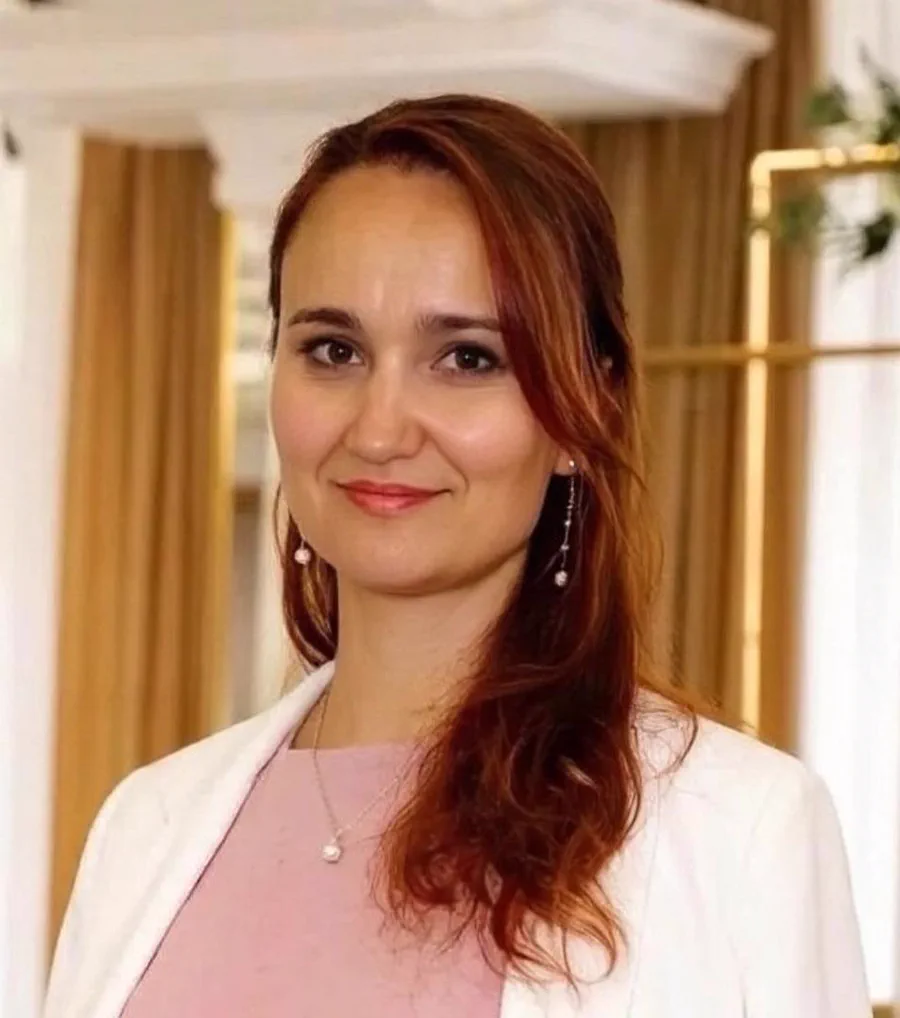
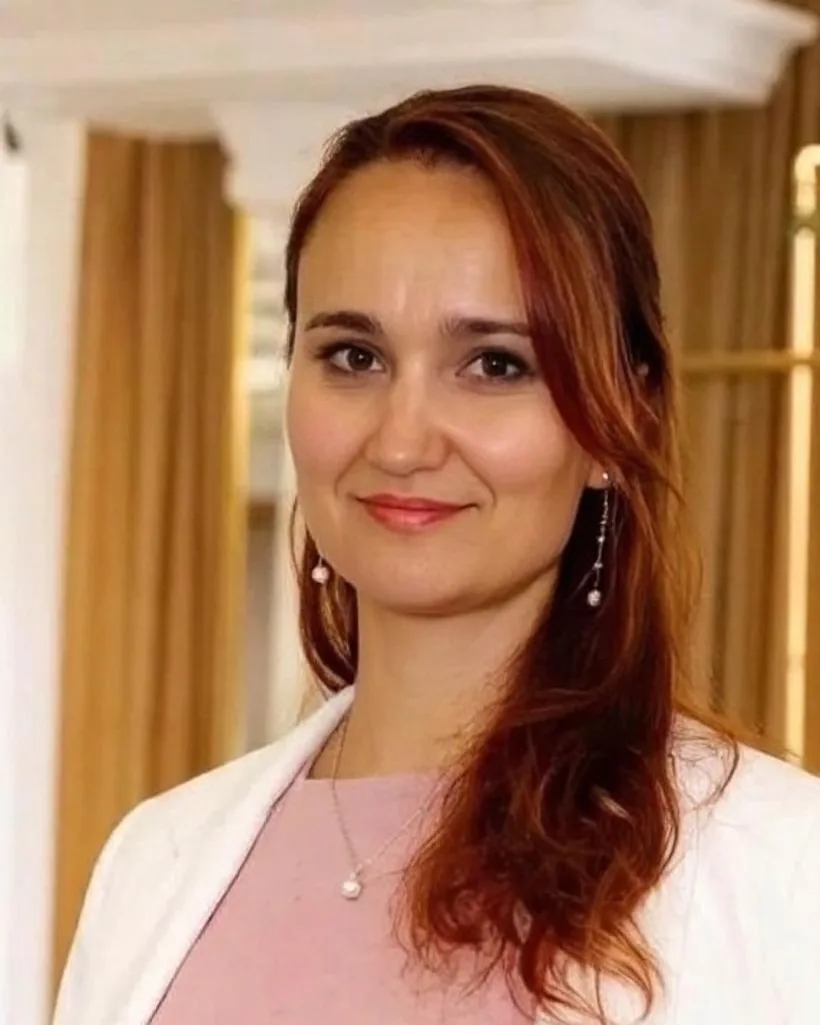
feat: описание и фото профиля — по обновлённому PDF-портфолио (28.10)

diff --git a/src/index.html b/src/index.html
@@ -17,9 +17,9 @@
   <link rel="canonical" href="https://jt-design.ru/index.html">
   <meta property="og:type" content="website">
   <meta property="og:title" content="Юлия Таранникова — дизайн интерьера">
-  <meta property="og:description" content="Проектирую интерьер под сдачу в аренду или для личного проживания. В каждом проекте совмещаю продуманную планировку с законной перепланировкой — и интерьер, который привлекает платёжеспособных арендаторов.">
+  <meta property="og:description" content="Проектирую Ваш интерьер под сдачу в аренду или для Вашего личного проживания. В каждом проекте совмещаю продуманную планировку с законной перепланировкой, в которой комфортно жить и интерьер, который привлекает платежеспособных арендаторов.">
   <meta property="og:url" content="https://jt-design.ru/index.html">
-  <meta property="og:image" content="https://jt-design.ru/assets/img/julia-16x9.webp">
+  <meta property="og:image" content="https://jt-design.ru/assets/img/julia-og.webp">
   <meta property="og:locale" content="ru_RU">
   <meta name="twitter:card" content="summary_large_image">
   <script type="application/ld+json">
@@ -27,9 +27,9 @@
   "@context": "https://schema.org",
   "@type": "ProfessionalService",
   "name": "Юлия Таранникова — дизайн интерьера",
-  "description": "Проектирую интерьер под сдачу в аренду или для личного проживания. В каждом проекте совмещаю продуманную планировку с законной перепланировкой — и интерьер, который привлекает платёжеспособных арендаторов.",
+  "description": "Проектирую Ваш интерьер под сдачу в аренду или для Вашего личного проживания. В каждом проекте совмещаю продуманную планировку с законной перепланировкой, в которой комфортно жить и интерьер, который привлекает платежеспособных арендаторов.",
   "url": "https://jt-design.ru/",
-  "image": "https://jt-design.ru/assets/img/julia-16x9.webp",
+  "image": "https://jt-design.ru/assets/img/julia-og.webp",
   "areaServed": "Москва и Россия",
   "address": {
     "@type": "PostalAddress",
@@ -93,10 +93,10 @@
         <div class="hero__plate">
           <div class="hero__top">
             <figure class="hero__portrait">
-              <img src="assets/img/julia-hero-800.webp"
-                   srcset="assets/img/julia-hero-800.webp 500w, assets/img/julia-hero.webp 900w"
+              <img src="assets/img/julia-hero-500.webp"
+                   srcset="assets/img/julia-hero-500.webp 500w, assets/img/julia-hero.webp 952w"
                    sizes="(min-width: 768px) 168px, 84px"
-                   width="900" height="1018"
+                   width="952" height="1026"
                    alt="Юлия Таранникова, дизайнер интерьера"
                    loading="eager" decoding="async">
             </figure>
@@ -107,7 +107,7 @@
             </div>
           </div>
           <h1 class="hero__title">Интерьер, который <em>работает</em> на вас</h1>
-          <p class="hero__subtitle">Проектирую интерьер под сдачу в аренду или для личного проживания.</p>
+          <p class="hero__subtitle">Проектирую Ваш интерьер под сдачу в аренду или для Вашего личного проживания.</p>
           <p class="hero__slogan">Вы не тратите месяцы на поиск мебели, материалов и контроль строителей. Всё продумано, подобрано и прописано в дизайн-проекте — от розеток до артикулов мебели.</p>
           <div class="hero__actions">
             <a class="btn btn--accent btn--lg" href="portfolio.html">Посмотреть портфолио</a>
@@ -363,9 +363,9 @@
         <div class="about__photo">
           <figure class="media media--4x5">
             <img src="assets/img/julia-1.webp"
-                 srcset="assets/img/julia-1-800.webp 800w, assets/img/julia-1.webp 1200w"
+                 srcset="assets/img/julia-1-400.webp 400w, assets/img/julia-1-800.webp 800w, assets/img/julia-1.webp 820w"
                  sizes="(min-width: 768px) 40vw, 100vw"
-                 width="1200" height="1500"
+                 width="820" height="1025"
                  alt="Юлия Таранникова — дизайнер интерьера"
                  loading="lazy" decoding="async">
           </figure>
@@ -374,7 +374,7 @@
           <span class="section__eyebrow">Обо мне</span>
           <h2 id="about-title">Юлия Таранникова</h2>
           <p class="about__role">Дизайнер интерьера с инженерно-экономическим образованием</p>
-          <p>Проектирую интерьер под сдачу в аренду или для личного проживания. В каждом проекте совмещаю продуманную планировку с законной перепланировкой — и интерьер, который привлекает платёжеспособных арендаторов.</p>
+          <p>Проектирую Ваш интерьер под сдачу в аренду или для Вашего личного проживания. В каждом проекте совмещаю продуманную планировку с законной перепланировкой, в которой комфортно жить и интерьер, который привлекает платежеспособных арендаторов.</p>
           <ul class="about__facts">
             <li><strong>Два сценария</strong> Квартира для жизни — удобно и красиво; для аренды — чтобы сдать быстрее и дороже.</li>
             <li><strong>Законно</strong> Перепланировка только по нормам: узаконенный демонтаж и монтаж перегородок.</li>

diff --git a/src/contacts.html b/src/contacts.html
@@ -19,7 +19,7 @@
   <meta property="og:title" content="Контакты — Юлия Таранникова">
   <meta property="og:description" content="Telegram, канал, Max и ВКонтакте. Подберу оптимальный пакет услуг.">
   <meta property="og:url" content="https://jt-design.ru/contacts.html">
-  <meta property="og:image" content="https://jt-design.ru/assets/img/julia-16x9.webp">
+  <meta property="og:image" content="https://jt-design.ru/assets/img/julia-og.webp">
   <meta property="og:locale" content="ru_RU">
   <meta name="twitter:card" content="summary_large_image">
 </head>
@@ -100,9 +100,9 @@
           <div>
             <figure class="media media--4x5 contact-photo">
               <img src="assets/img/julia-1.webp"
-                   srcset="assets/img/julia-1-800.webp 800w, assets/img/julia-1.webp 1200w"
+                   srcset="assets/img/julia-1-400.webp 400w, assets/img/julia-1-800.webp 800w, assets/img/julia-1.webp 820w"
                    sizes="(min-width: 768px) 45vw, 100vw"
-                   width="1200" height="1500"
+                   width="820" height="1025"
                    alt="Юлия Таранникова — дизайнер интерьера"
                    loading="lazy" decoding="async">
             </figure>
